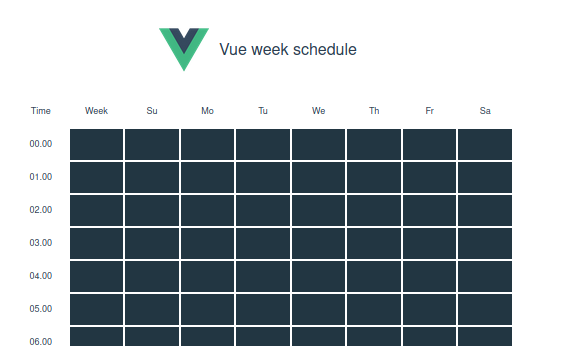
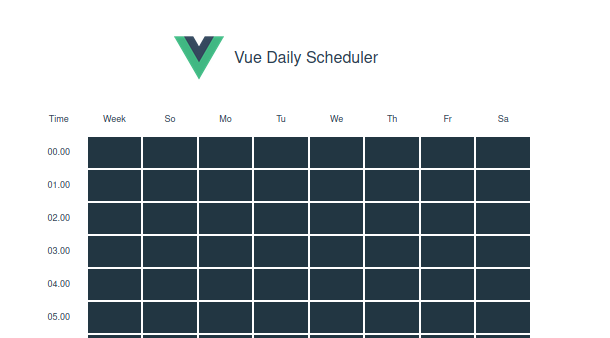
changed inconsistent name

diff --git a/src/App.vue b/src/App.vue
@@ -2,7 +2,7 @@
   <div id="app">
     <div>
       <img alt="Vue logo" src="./assets/logo.png" style="width: 50px; vertical-align: middle">
-      <span style="padding: 10px">Vue Daily Schedule</span>
+      <span style="padding: 10px">Vue Daily Scheduler</span>
     </div>
     <div style="width: 500px; margin: 0 auto; padding: 20px">
       <schedule 
